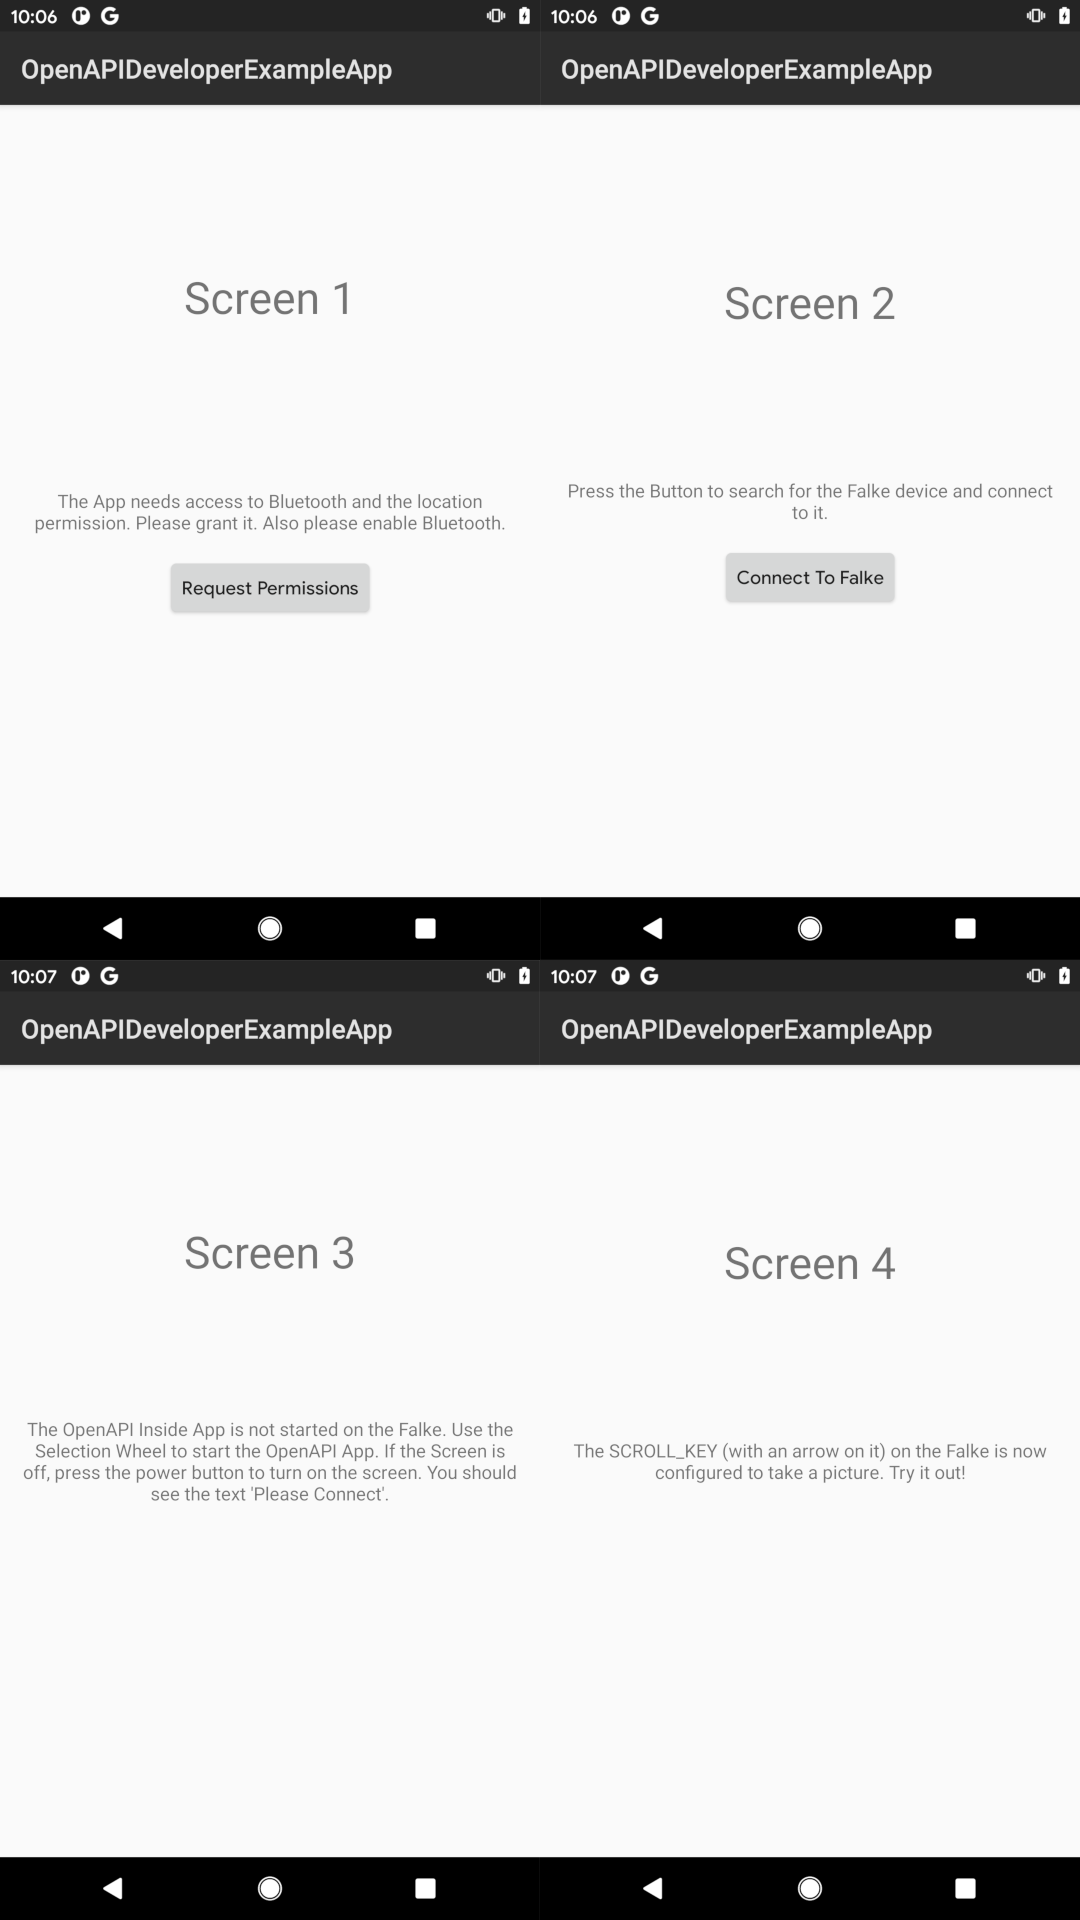
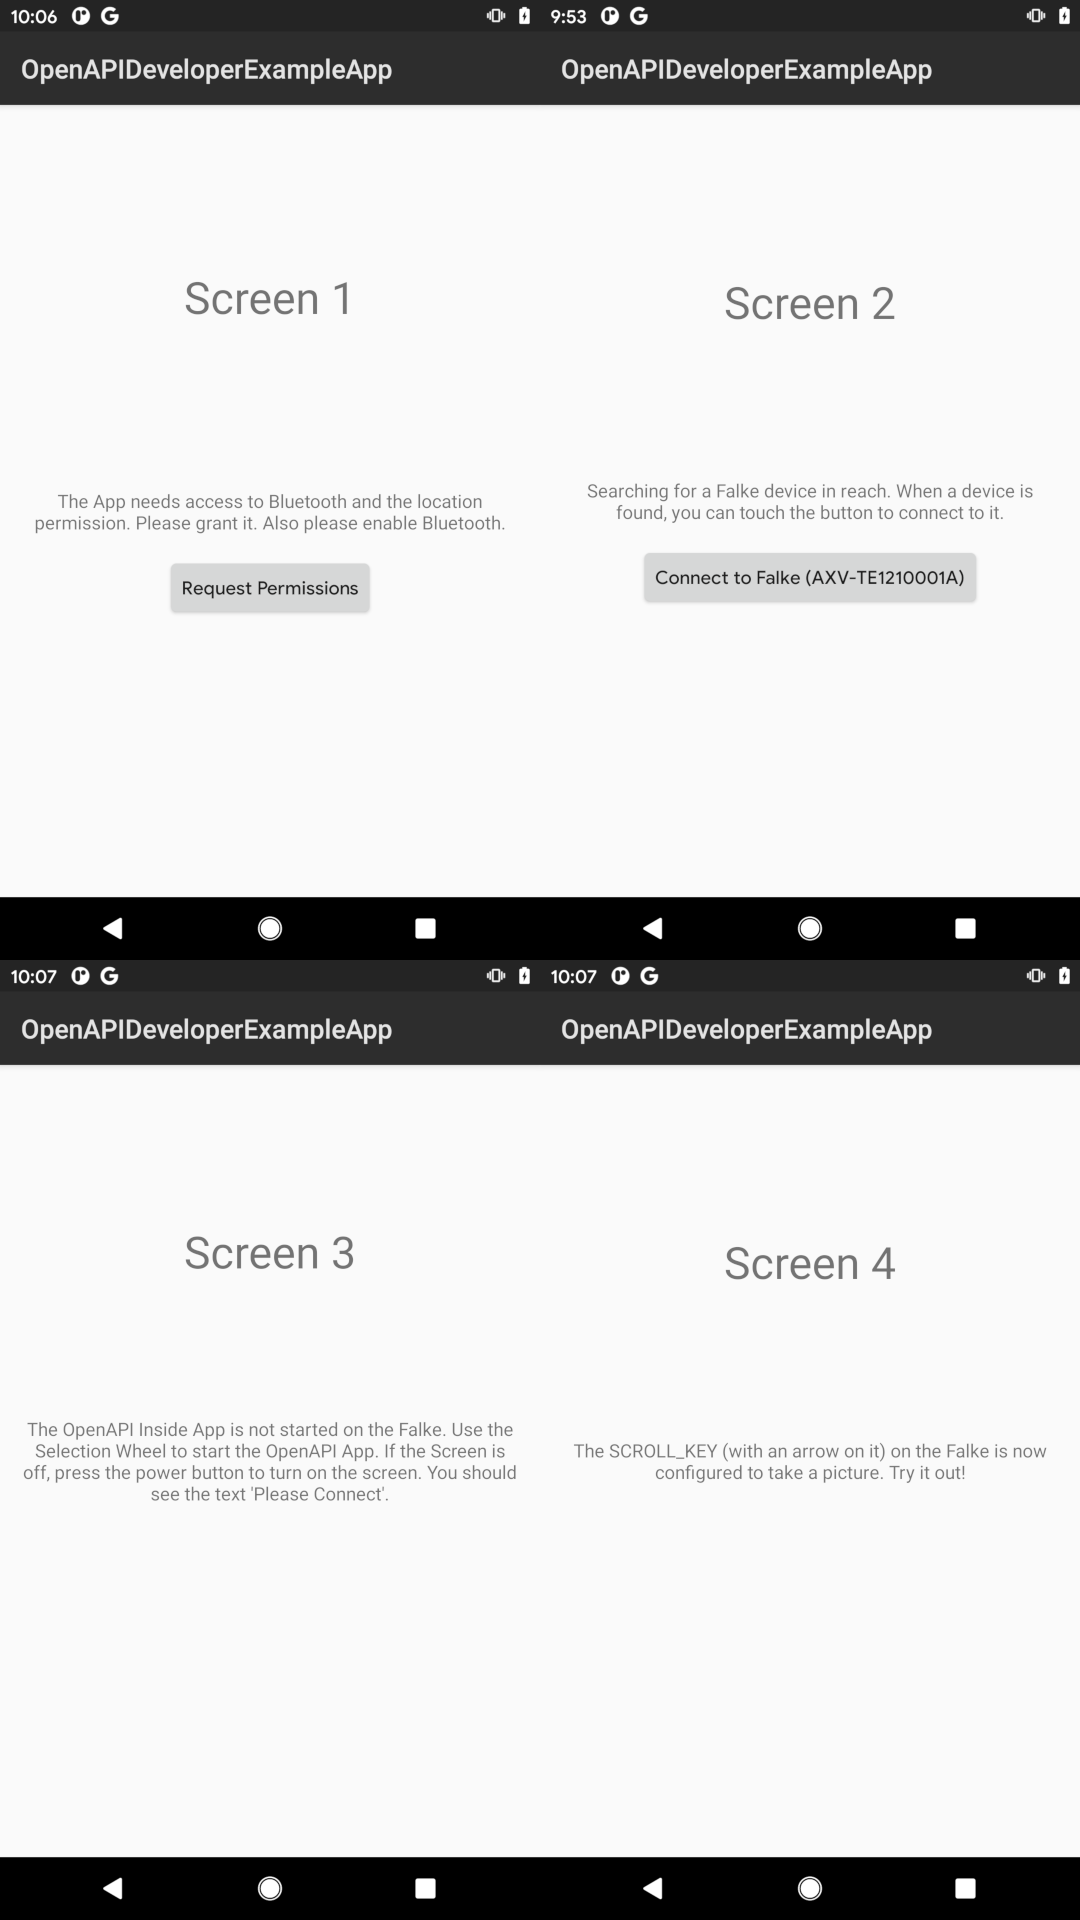
Use the SOCommDeviceSearcher to find Falke devices in reach

Changed region(s): [[0.55, 0.25, 0.9472, 0.3125], [0.5194, 0.0, 0.6111, 0.0312]]

diff --git a/app/src/main/java/com/example/openapideveloperexampleapp/MainActivity.kt b/app/src/main/java/com/example/openapideveloperexampleapp/MainActivity.kt
@@ -15,6 +15,7 @@ import android.util.Log
 import android.widget.Button
 import android.widget.Toast
 import com.example.openapideveloperexampleapp.BuildConfig.DEBUG
+import com.swarovskioptik.comm.SOCommDeviceSearcher
 import com.swarovskioptik.comm.SOCommOutsideAPI
 import com.swarovskioptik.comm.SOCommOutsideAPIBuilder
 import com.swarovskioptik.comm.definition.SOContext
@@ -25,6 +26,7 @@ import io.reactivex.disposables.CompositeDisposable
 import io.reactivex.rxkotlin.addTo
 import java.util.LinkedList
 import java.util.concurrent.TimeUnit
+import java.util.concurrent.atomic.AtomicReference
 
 class MainActivity : Activity() {
     companion object {
@@ -154,12 +156,51 @@ class MainActivity : Activity() {
 
         val buttonConnectToFolke = findViewById<Button>(R.id.buttonConnectToFalke)
 
+        // Disable the button until at least one device is found
+        buttonConnectToFolke.isEnabled = false
+        buttonConnectToFolke.text = getString(R.string.connect_to_falke, "UNKNOWN")
+
+        // TODO: This code starts the search and stops when the first device is found.
+        // A real world application would continue the search and show the user a list of
+        // available devices. A further optimization is to save the last used device name
+        // and present it to the user without searching for new devices.
+        // NOTE: The search process drains the battery. It should be stopped as early as
+        // possible.
+        val deviceSearchDisposables = CompositeDisposable()
+        val atomicDeviceValue: AtomicReference<String> = AtomicReference("")
+        val deviceSearcher = SOCommDeviceSearcher.create(this)
+        deviceSearcher.search()
+            .observeOn(AndroidSchedulers.mainThread())
+            .doOnError { e ->
+                Log.e(TAG, "Error while searching Falke devices", e)
+                Toast.makeText(this, "Error while searching for Falke devices!", Toast.LENGTH_SHORT)
+                    .show()
+            }
+            .doOnNext { foundDevices ->
+                if (DEBUG) Log.d(TAG, "foundDevices: $foundDevices")
+                if (foundDevices.isEmpty())
+                    return@doOnNext
+
+                // Just use the first device. This is only example code to show the concepts.
+                // A real world example would add the found devices to a list and show it to the
+                // user.
+                val foundDevice = foundDevices.first()
+
+                atomicDeviceValue.set(foundDevice.deviceName)
+                buttonConnectToFolke.isEnabled = true
+                buttonConnectToFolke.text =
+                    getString(R.string.connect_to_falke, foundDevice.deviceName)
+
+                // Dispose the Observable now. This will stop the search process.
+                deviceSearchDisposables.dispose()
+            }
+            .subscribe()
+            .addTo(deviceSearchDisposables)
+
         buttonConnectToFolke.setOnClickListener { button ->
             button.isEnabled = false
 
-            // TODO where to get the device name!
-            val deviceName = "AXV-TE1210001A"
-            sdk!!.connect(deviceName)
+            sdk!!.connect(atomicDeviceValue.get())
                 // Add a timeout. Otherwise the screen will block forever when no Falke device
                 // is in reach! But the timeout must also be long enough so the user can handle
                 // the initial pairing.
@@ -266,7 +307,8 @@ class MainActivity : Activity() {
             return UIState.CONNECT_TO_FALKE
 
         if (!sdk!!.availableContexts.blockingFirst().contains(SOContext.OpenAPIContextBLE)
-            || !sdk!!.contextsInUse.blockingFirst().contains(SOContext.OpenAPIContextBLE))
+            || !sdk!!.contextsInUse.blockingFirst().contains(SOContext.OpenAPIContextBLE)
+        )
             return UIState.WAIT_FOR_OPENAPI_INSIDE_APP
 
         return UIState.MAIN

diff --git a/README.md b/README.md
@@ -41,6 +41,11 @@ the transitions happen not based on user input, but on external events, like
 losing the connection to the Falke. A real world application is expected to
 provide a better user experience.
 
+For a good user experience some in-process animations are needed. For example
+when the app search for available Fakle devices in reach or when the device
+connects to a Falke device. Otherwise the user does not know that a operation
+is in progress.
+
 
 # How to build it
 
